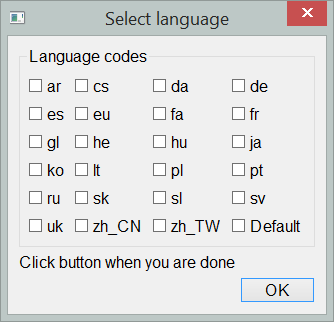
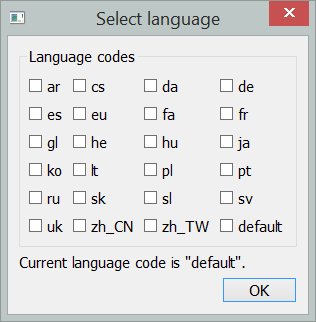
renaming function and fixing typo

diff --git a/easygui_qt/easygui_qt.py b/easygui_qt/easygui_qt.py
@@ -55,7 +55,7 @@ __all__ = [
     'set_font_size',
     'get_language',
     'set_language',
-    'show_message',
+    'show',
     'get_abort',
     'show_file',
     'show_code',
@@ -155,14 +155,14 @@ class SimpleApp(QtGui.QApplication):
 
 #========== Message Boxes ====================#
 
-def show_message(message="Message", title="Title"):
+def show(message="Message", title="Title"):
     """Simple message box.
 
        :param message: message string
        :param title: window title
 
        >>> import easygui_qt as easy
-       >>> easy.show_message()
+       >>> easy.show()
 
        .. image:: ../docs/images/show_message.png
     """

diff --git a/easygui_qt/language_selector.py b/easygui_qt/language_selector.py
@@ -34,7 +34,7 @@ class LanguageSelector(QtGui.QDialog):
         # adding default language option. When using the PyQt distribution
         # no "en" files were found and yet "en" was the obvious default.
         # We need this option in case we want to revert a change.
-        check_box = QtGui.QCheckBox("Default")
+        check_box = QtGui.QCheckBox("default")
         check_box.setAutoExclusive(True)
         self.qm_files_choices[check_box] = "default"
         check_box.toggled.connect(self.check_box_toggled)
